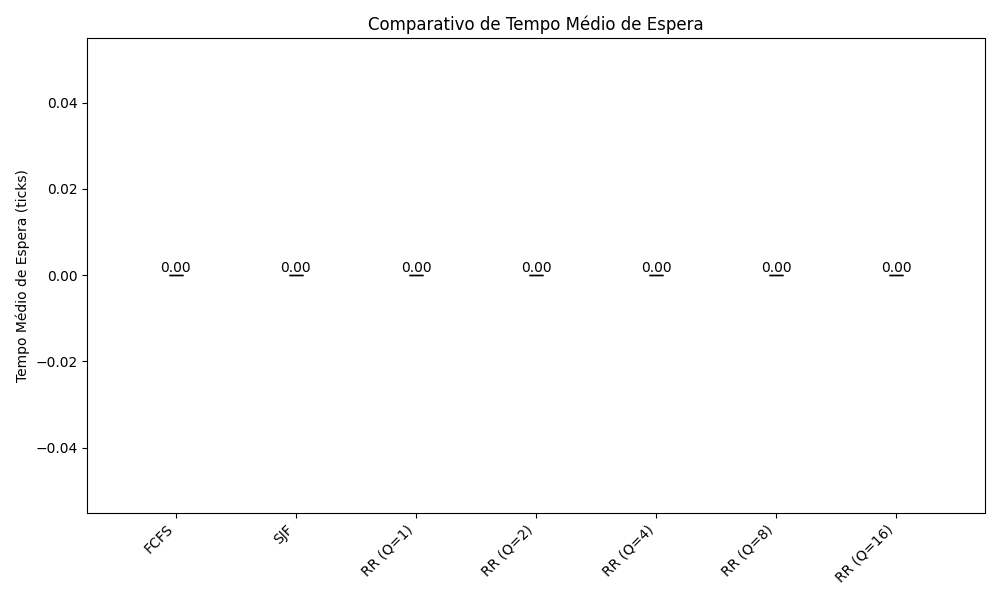
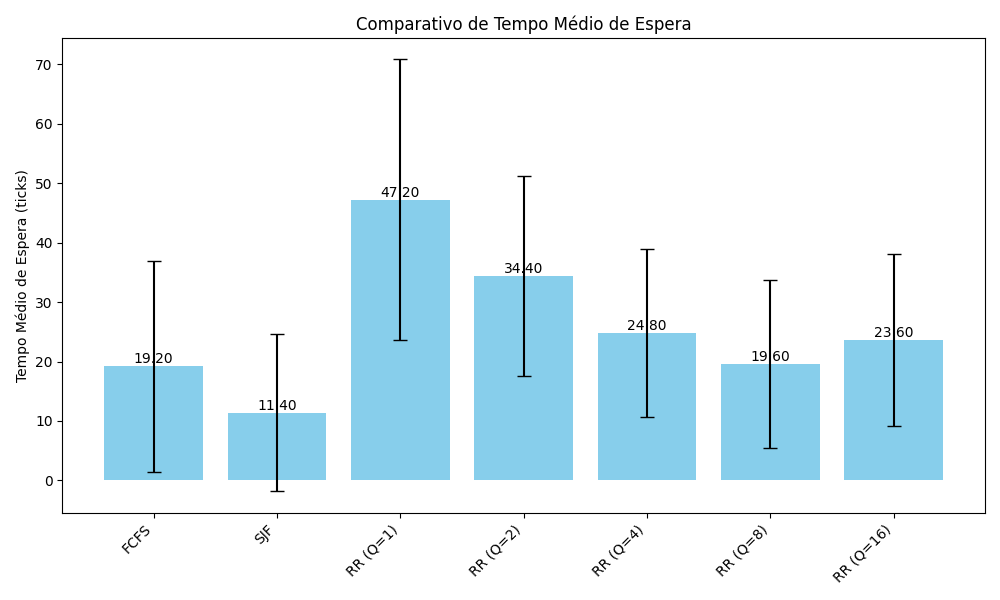
corrigindo geração do gráfico

diff --git a/questao_1/results/tables.py b/questao_1/results/tables.py
@@ -23,36 +23,50 @@ def display_and_save_results(results: dict):
     
     print("\n## 1. Tabela de Métricas (Média de Espera, Retorno e Vazão)")
     
-    df_metrics = pd.DataFrame(results["metricas"])
- 
-    columns_to_display = [c for c in ['algorithm', 'quantum', 'avg_waiting_time', 'avg_turnaround_time', 'throughput'] if c in df_metrics.columns]
-    df_metrics_display = df_metrics[columns_to_display].fillna({'quantum': '-'})
+    metrics_list = []
+    for alg_name, data in results.items():
+        metric_summary = {'Algoritmo': alg_name, **data['metrics']}
+        metrics_list.append(metric_summary)
 
-    format_mapping = {
-        col: '{:.2f}'.format for col in df_metrics_display.select_dtypes(include=['float64']).columns
-    }
+    df_metrics = pd.DataFrame(metrics_list)
     
-    print(df_metrics_display.to_string(index=False, formatters=format_mapping))
+    display_columns = {
+        'Algoritmo': 'Algoritmo',
+        'avg_waiting_time': 'Tempo Médio de Espera',
+        'std_waiting_time': 'Desvio Padrão (Espera)',
+        'avg_turnaround_time': 'Tempo Médio de Retorno',
+        'std_turnaround_time': 'Desvio Padrão (Retorno)',
+        'throughput': 'Vazão (Throughput)'
+    }
+
+    # Filtra apenas as colunas que realmente existem para evitar erros
+    existing_cols = [col for col in display_columns.keys() if col in df_metrics.columns]
+    df_metrics_display = df_metrics[existing_cols].rename(columns=display_columns)
+    
+    print(df_metrics_display.to_string(index=False, float_format="%.2f"))
     save_table(df_metrics_display, "metricas_comparativas.csv")
 
     print("\n" + "-" * 60)
     print("## 2. Detalhamento da Sequência de Execução (Tempos Finais)")
     
-    for alg_name, exec_seq in results["execucao"].items():
-        print(f"\n--- Algoritmo: {alg_name} ---")
-        df_exec = pd.DataFrame([asdict(p) for p in exec_seq]) 
+    for alg_name, data in results.items():
+        print(f"\n--- {alg_name} ---")
         
-        display_cols = ['pid', 'arrival_time', 'burst_time', 'start_time', 'finish_time', 'waiting_time', 'turnaround_time']
-        df_exec_display = df_exec[[c for c in display_cols if c in df_exec.columns]].rename(columns={
-            'arrival_time': 'arrival', 
-            'burst_time': 'burst', 
-            'start_time': 'start', 
-            'finish_time': 'end', 
-            'waiting_time': 'waiting',
-            'turnaround_time': 'turnaround' 
-        })
+        # Converte a lista de objetos Process em uma lista de dicionários para o pandas
+        procs_as_dicts = [asdict(p) for p in data['completed_processes']]
+        df_procs = pd.DataFrame(procs_as_dicts)
 
-        print(df_exec_display.to_string(index=False)) # Imprime o DataFrame de exibição
-       
-    print("=" * 60)
-    print("Simulação concluída. Pronto para a apresentação/demonstração.")
+        # Mapeia os nomes das colunas de inglês para português
+        column_mapping = {
+            'pid': 'PID', 'arrival_time': 'Chegada', 'burst_time': 'Duração (Burst)',
+            'start_time': 'Início', 'finish_time': 'Fim', 
+            'waiting_time': 'Tempo de Espera', 'turnaround_time': 'Tempo de Retorno'
+        }
+        existing_proc_cols = [col for col in column_mapping.keys() if col in df_procs.columns]
+        df_procs_display = df_procs[existing_proc_cols].rename(columns=column_mapping)
+        
+        print(df_procs_display.to_string(index=False))
+        
+        # Salva a tabela de detalhamento em um arquivo CSV
+        safe_alg_name = alg_name.replace(' ', '_').replace('=', '').replace('(', '').replace(')', '')
+        save_table(df_procs_display, f"detalhes_{safe_alg_name}.csv")

diff --git a/questao_1/results/grafics.py b/questao_1/results/grafics.py
@@ -3,7 +3,6 @@ import os
 import pandas as pd
 import matplotlib.pyplot as plt
 
-# Define um diretório de saída para os gráficos
 OUTPUT_DIR = os.path.join(os.path.dirname(__file__), '..', 'graficos_output')
 
 def _setup_output_dir():
@@ -11,46 +10,30 @@ def _setup_output_dir():
     if not os.path.exists(OUTPUT_DIR):
         os.makedirs(OUTPUT_DIR)
 
-def generate_required_charts(metrics: Dict[str, Any]): 
+def generate_required_charts(results: dict): 
     """Gera e salva os gráficos de barras comparando as métricas exigidas pela questão."""
     _setup_output_dir()
     print("\nGerando gráficos de métricas comparativas...")
 
     # Prepara os dados para o DataFrame do pandas
     metrics_list = []
-    for data in metrics:  # metrics agora é lista
-        alg = data.get('algoritmo', 'Algoritmo')
-        m = data.get('metrics', {})
-        metrics_list.append({
-            'Algoritmo': alg,
-            'Avg Espera': m.get('avg_waiting_time', 0),
-            'Std Espera': m.get('std_waiting_time', 0),
-            'Avg Retorno': m.get('avg_turnaround_time', 0),
-            'Std Retorno': m.get('std_turnaround_time', 0),
-            'Vazão': m.get('throughput', 0),
-            'Janela de Vazão': m.get('throughput_window', 'N/A'),
-            'quantum': m.get('quantum', None)
-        })
+    for alg_name, data in results.items():  
+        metric_summary = {'Algoritmo': alg_name, **data['metrics']}
+        metrics_list.append(metric_summary)
 
     df = pd.DataFrame(metrics_list)
-
-    # Ajusta o nome do algoritmo para RR com quantum
-    df['Algoritmo'] = df.apply(
-        lambda row: f"RR (Q={int(row['quantum'])})"
-                    if pd.notna(row['quantum'])
-                    else row['Algoritmo'],
-        axis=1
-    )
+    if df.empty:
+        print("Aviso: Não há dados de métricas para gerar gráficos.")
+        return
 
     # --- Gráfico 1: Tempo Médio de Espera ---
     plt.figure(figsize=(10, 6))
     bars_espera = plt.bar(
         df['Algoritmo'], 
-        df['Avg Espera'], 
-        yerr=df['Std Espera'],  # Adiciona o desvio padrão como barra de erro
+        df['avg_waiting_time'], 
+        yerr=df.get('std_waiting_time'),  
         capsize=5, 
-        color='skyblue',
-        alpha=0.9
+        color='skyblue'
     )
     plt.ylabel('Tempo Médio de Espera (ticks)')
     plt.title('Comparativo de Tempo Médio de Espera')
@@ -68,10 +51,10 @@ def generate_required_charts(metrics: Dict[str, Any]):
     plt.figure(figsize=(10, 6))
     bars_retorno = plt.bar(
         df['Algoritmo'], 
-        df['Avg Retorno'], 
-        yerr=df['Std Retorno'],
-        color='lightcoral',
-        alpha=0.9
+        df['avg_turnaround_time'], 
+        yerr=df.get('std_turnaround_time'),
+        capsize=5, 
+        color='lightcoral'
     )
     plt.ylabel('Tempo Médio de Retorno (ticks)')
     plt.title('Comparativo de Tempo Médio de Retorno (Turnaround)')
@@ -87,8 +70,8 @@ def generate_required_charts(metrics: Dict[str, Any]):
     
     # --- Gráfico 3: Vazão (Throughput) ---
     plt.figure(figsize=(10, 6))
-    janela = df['Janela de Vazão'].iloc[0]
-    bars_vazao = plt.bar(df['Algoritmo'], df['Vazão'], color='mediumseagreen', alpha=0.9)
+    janela = df['throughput_window'].iloc[0]
+    bars_vazao = plt.bar(df['Algoritmo'], df['throughput'], color='mediumseagreen')
     plt.ylabel('Processos Concluídos')
     plt.title(f'Comparativo de Vazão (Throughput em T={janela})')
     plt.xticks(rotation=45, ha="right")

diff --git a/questao_1/simulator/core.py b/questao_1/simulator/core.py
@@ -3,7 +3,7 @@ from .models import Process
 import copy
 from .fcfs_sjf import fcfs, sjf 
 from .round_robin import round_robin
-from .utils import calculate_metrics, calculate_throughput
+from .utils import calculate_metrics
 
 class Simulator:
     """
@@ -21,7 +21,7 @@ class Simulator:
             Process(**p) for p in config["workload"]["processes"]
         ]
 
-        self.results: Dict[str, Any] = {"metricas": [], "execucao": {}} 
+        self.results: Dict[str, Any] = {} 
 
     def run_simulation(self):
         """Executa a simulação para todos os algoritmos configurados."""
@@ -66,24 +66,16 @@ class Simulator:
     def _process_results(self, alg_name: str, result_tuple: tuple):
         """Calcula e armazena métricas e a sequência de execução.""" 
         
-        
         completed_processes, timeline = result_tuple
-        
-       
+               
         metrics = calculate_metrics(completed_processes, alg_name, self.throughput_window_T)
 
-        if alg_name.startswith("RR"):
-            # Extrai o valor do quantum do nome 
-            quantum_val = int(alg_name.split('=')[1].replace(')', ''))
-            metrics["quantum"] = quantum_val
-        
-        # 2. Armazena as métricas em uma lista
-        self.results["metricas"].append(metrics)
-        
-        # 3. Armazena a sequência de execução detalhada 
-        self.results["execucao"][alg_name] = completed_processes
+        self.results[alg_name] = {
+            "metrics": metrics,
+            "completed_processes": completed_processes,
+            "timeline": timeline
+        }
 
-    
     def get_results(self):
         """Retorna todos os resultados da simulação."""
         return self.results

diff --git a/main.py b/main.py
@@ -19,21 +19,18 @@ def main():
         
         results = simulator.get_results()
 
-        
+        if results:
+            # Imprime tabelas
+            display_and_save_results(results)
+
+            # Gera gráficos
+            generate_required_charts(results) 
+
     except FileNotFoundError:
         print(f"ERRO: Arquivo de configuração '{CONFIG_FILE}' não encontrado.")
     except Exception as e:
         print(f"\nERRO FATAL: Ocorreu um problema durante a simulação: {e}")
         return 
-
-  
-    if results:
-        # Imprime tabelas
-        display_and_save_results(results)
-
-        # Gera gráficos
-        generate_required_charts(results["metricas"]) 
-
 
 if __name__ == "__main__":
     main()

diff --git a/questao_1/simulator/fcfs_sjf.py b/questao_1/simulator/fcfs_sjf.py
@@ -1,7 +1,6 @@
 import copy
 
 def fcfs(processes, context_switch_cost: int = 0):
-    # Cria uma cópia para não modificar a lista original
     process_list = sorted(copy.deepcopy(processes), key=lambda p: p.arrival_time)
     
     current_time = 0
